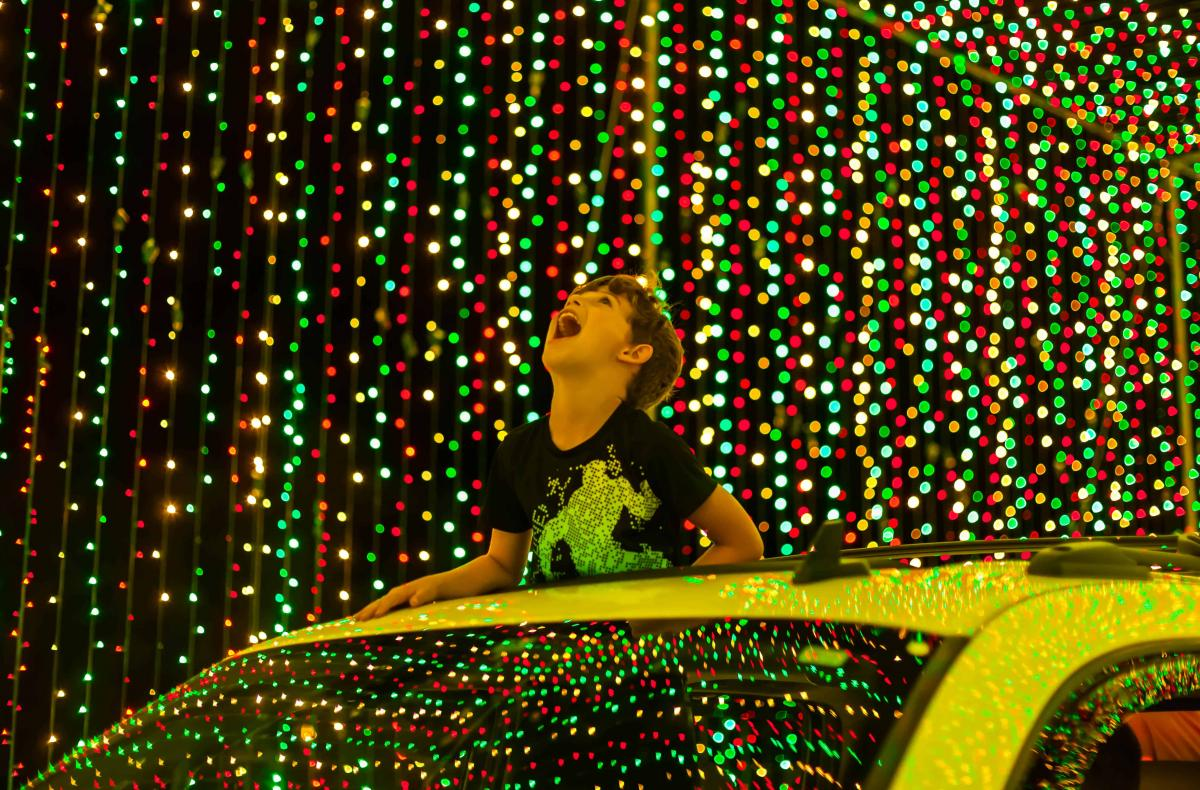
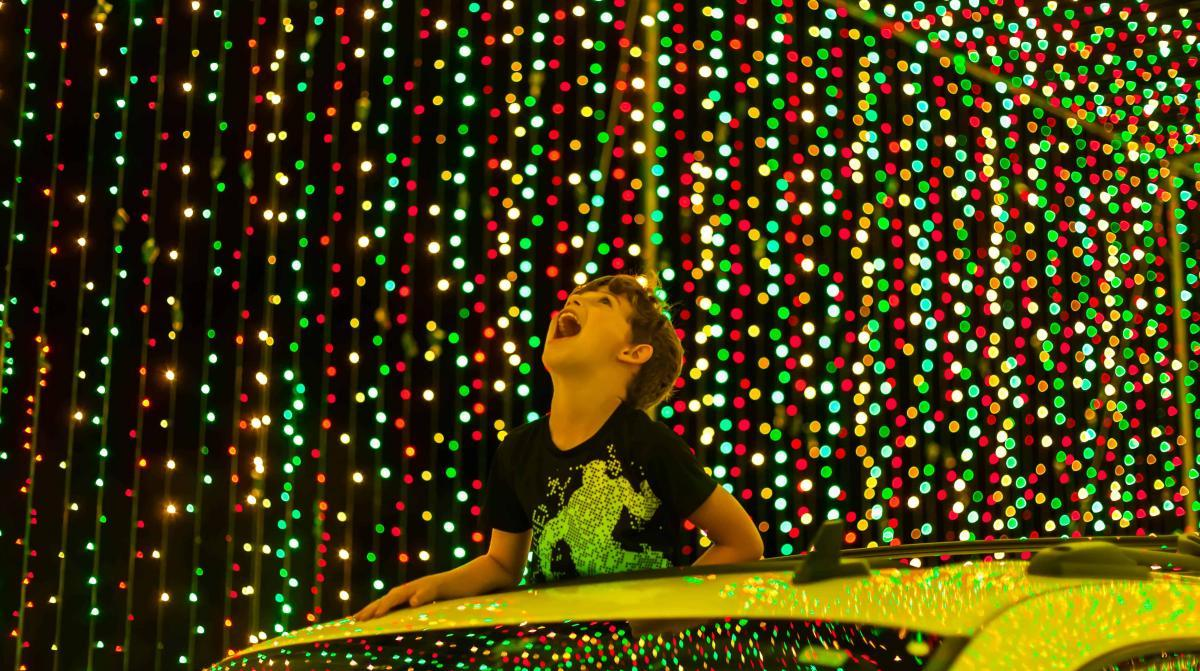
Adjusted cover image and removed play button

diff --git a/css/main.css b/css/main.css
@@ -6,6 +6,11 @@
 	margin: 0;
 }
 
+*::-webkit-media-controls-start-playback-button {
+  display: none!important;
+  -webkit-appearance: none;
+}
+
 body, html {
   height: 100%;
   color: black;
